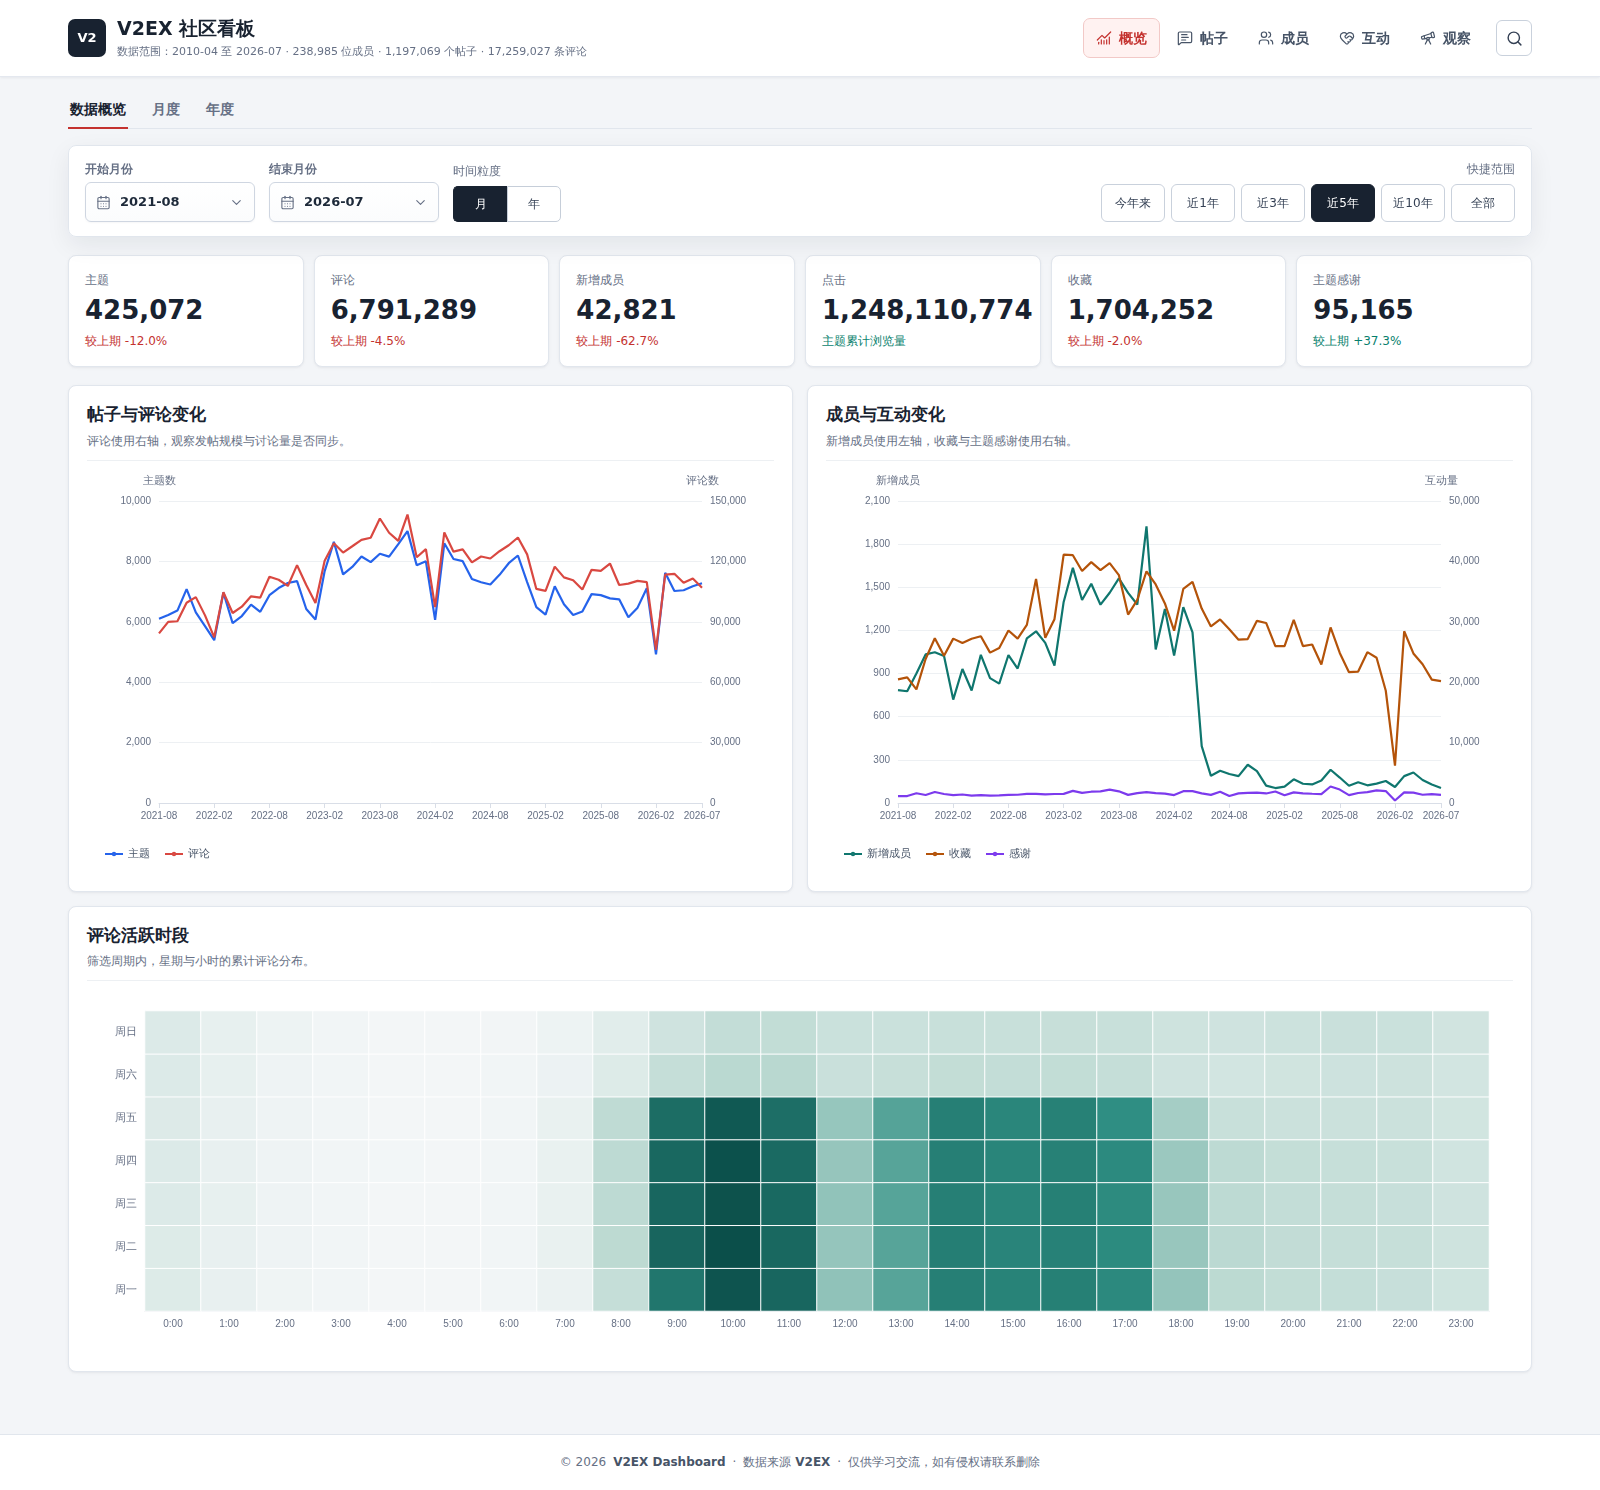
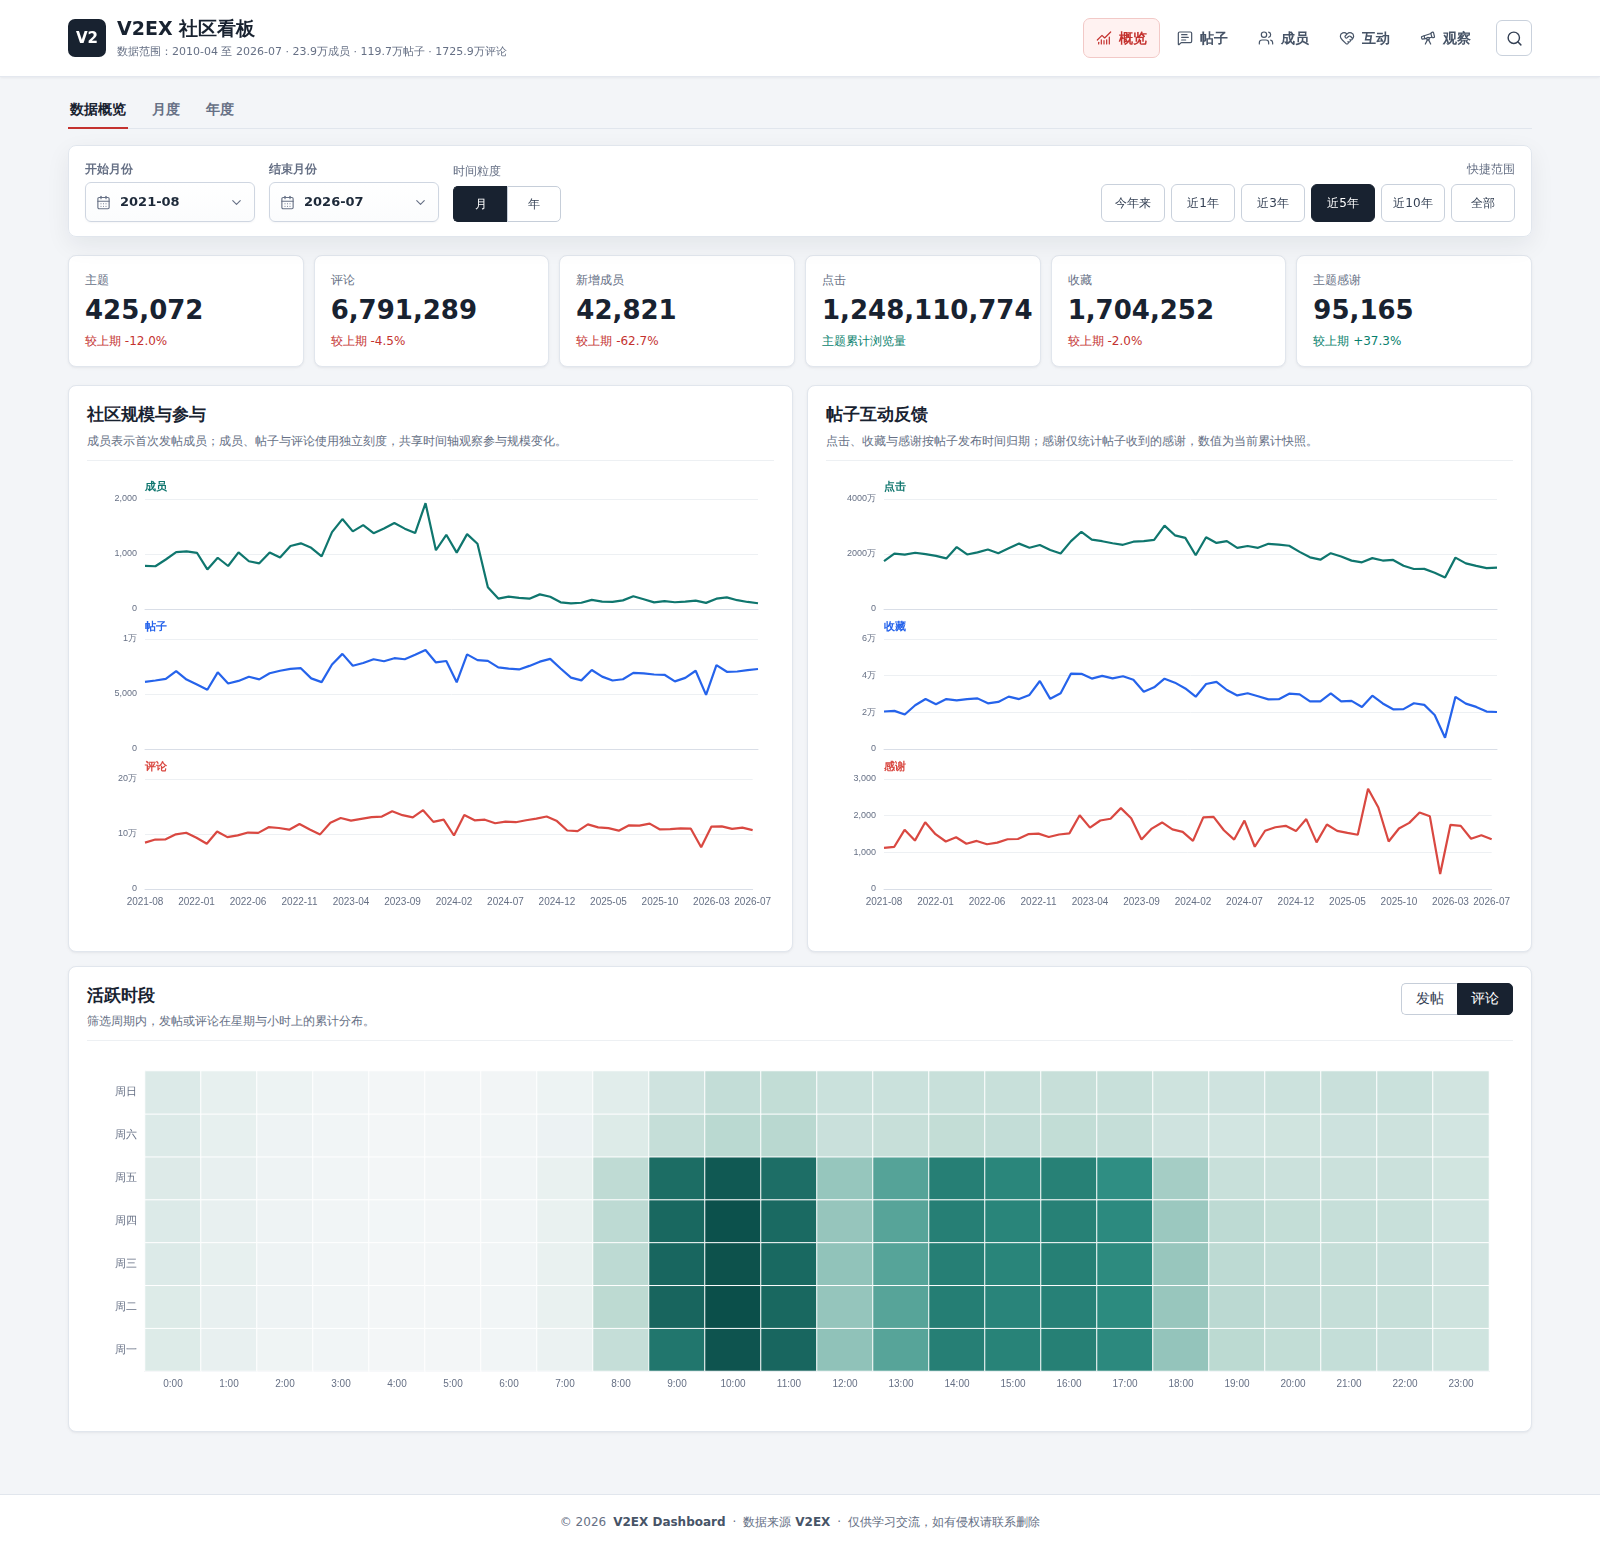
Refine overview activity trends

diff --git a/analysis/v2ex-analysis/src/App.vue b/analysis/v2ex-analysis/src/App.vue
@@ -77,6 +77,7 @@ const observations = shallowRef<any>({ metadata: {}, headline: { metrics: [] }, 
 const loadedData = new Set<string>()
 const contentView = ref<ContentView>("topics")
 const overviewView = ref<OverviewView>("trend")
+const overviewActivityMetric = ref<"topics" | "comments">("comments")
 const communityView = ref<CommunityView>("trends")
 const fromPeriod = ref("")
 const toPeriod = ref("")
@@ -269,6 +270,15 @@ type LineDefinition = {
   areaColor?: string
 }
 
+type OverviewLaneDefinition = {
+  name: string
+  data: number[]
+  color: string
+  unit: string
+}
+
+const overviewLaneColors = ["#0f766e", "#2563eb", "#d94841"] as const
+
 function renderLineChart(
   id: string,
   periods: string[],
@@ -341,6 +351,117 @@ function renderLineChart(
         symbol: ["none", "none"],
         lineStyle: { color: chartTheme.pointer, type: "dashed", width: 1 },
         label: { color: chartTheme.axis, fontSize: 10, formatter: "{b}", position: "insideEndTop" },
+        data: eventMarkers.map((event: any) => ({ name: event.short_label, xAxis: event.axisPeriod })),
+      } : undefined,
+    })),
+  } as any, true)
+}
+
+function renderOverviewMetricGroup(
+  id: string,
+  periods: string[],
+  definitions: OverviewLaneDefinition[],
+  showEvents = false,
+) {
+  const chart = managedChart(id)
+  if (!chart || !periods.length) return
+  const element = chart.getDom()
+  chart.resize()
+
+  const annual = periods[0]?.length === 4
+  const eventMarkers = showEvents
+    ? communityEvents.value
+      .map((event: any) => ({ ...event, axisPeriod: annual ? event.period.slice(0, 4) : event.period }))
+      .filter((event: any, index: number, values: any[]) => periods.includes(event.axisPeriod)
+        && values.findIndex((candidate) => candidate.axisPeriod === event.axisPeriod && candidate.title === event.title) === index)
+    : []
+  const chartHeight = Math.max(360, element.clientHeight)
+  const top = 26
+  const bottom = 44
+  const gap = 30
+  const laneHeight = Math.max(66, Math.floor((chartHeight - top - bottom - gap * 2) / definitions.length))
+  const grids = definitions.map((_, index) => ({
+    top: top + index * (laneHeight + gap),
+    height: laneHeight,
+    left: 58,
+    right: 16,
+    containLabel: false,
+  }))
+
+  chart.setOption({
+    aria: { enabled: true },
+    animation: false,
+    axisPointer: {
+      link: [{ xAxisIndex: "all" }],
+      label: { show: false },
+    },
+    tooltip: {
+      trigger: "axis",
+      confine: true,
+      axisPointer: { type: "line", lineStyle: { color: chartTheme.pointer, width: 1 } },
+      formatter(params: any[]) {
+        const dataIndex = Number(params[0]?.dataIndex || 0)
+        const rows = definitions.map((definition) => (
+          `<span style="display:flex;align-items:center;justify-content:space-between;gap:18px;min-width:190px">`
+          + `<span style="display:flex;align-items:center;gap:7px">`
+          + `<i style="display:inline-block;width:9px;height:9px;border-radius:50%;background:${definition.color}"></i>`
+          + `${escapeHtml(definition.name)}</span>`
+          + `<strong>${formatNumber(definition.data[dataIndex])} ${escapeHtml(definition.unit)}</strong></span>`
+        )).join("")
+        return `<div><strong>${escapeHtml(periods[dataIndex] || "")}</strong><div style="display:grid;gap:6px;margin-top:8px">${rows}</div></div>`
+      },
+    },
+    grid: grids,
+    xAxis: definitions.map((_, index) => ({
+      type: "category",
+      gridIndex: index,
+      boundaryGap: false,
+      data: periods,
+      axisLabel: index === definitions.length - 1 ? timeAxisLabel() : { show: false },
+      axisTick: { show: false },
+      axisLine: { lineStyle: { color: chartTheme.axisLine } },
+      axisPointer: { show: true, snap: true },
+    })),
+    yAxis: definitions.map((definition, index) => ({
+      type: "value",
+      gridIndex: index,
+      min: 0,
+      splitNumber: 2,
+      name: definition.name,
+      nameLocation: "end",
+      nameGap: 7,
+      nameTextStyle: { color: definition.color, fontSize: 11, fontWeight: 600, align: "left" },
+      axisLabel: {
+        color: chartTheme.axis,
+        fontSize: 9,
+        formatter: (value: number) => formatCompactNumber(value),
+      },
+      axisLine: { show: false },
+      axisTick: { show: false },
+      splitLine: { lineStyle: { color: chartTheme.gridLine } },
+    })),
+    series: definitions.map((definition, index) => ({
+      name: definition.name,
+      type: "line",
+      xAxisIndex: index,
+      yAxisIndex: index,
+      data: definition.data,
+      showSymbol: periods.length <= 1,
+      symbolSize: 7,
+      lineStyle: { color: definition.color, width: 2.2 },
+      itemStyle: { color: definition.color },
+      emphasis: { focus: "series", lineStyle: { width: 3.5 } },
+      markLine: eventMarkers.length ? {
+        silent: true,
+        symbol: ["none", "none"],
+        lineStyle: { color: chartTheme.pointer, type: "dashed", width: 1 },
+        label: {
+          show: index === 0,
+          color: chartTheme.axis,
+          fontSize: 10,
+          formatter: "{b}",
+          position: "insideEndTop",
+        },
         data: eventMarkers.map((event: any) => ({ name: event.short_label, xAxis: event.axisPeriod })),
       } : undefined,
     })),
@@ -624,6 +745,13 @@ function selectTab(id: string) {
 
 function selectOverviewView(id: string) {
   overviewView.value = id as OverviewView
+}
+
+async function selectOverviewActivityMetric(metric: "topics" | "comments") {
+  if (overviewActivityMetric.value === metric) return
+  overviewActivityMetric.value = metric
+  await nextTick()
+  renderHeatmap()
 }
 
 function selectContentView(id: string) {
@@ -1509,19 +1637,20 @@ async function loadTagComparisonDetails(values = comparedTags.value) {
 
 function renderOverviewTrend() {
   const periods = selectedMetrics.value.map((item) => item.period)
-  renderLineChart("overview-trend", periods, [
-    { name: "主题", data: selectedMetrics.value.map((item) => item.topic_count), color: "#2563eb" },
-    { name: "评论", data: selectedMetrics.value.map((item) => item.comment_count), color: "#d94841", yAxisIndex: 1 },
-  ], [{ name: "主题数" }, { name: "评论数" }])
+  renderOverviewMetricGroup("overview-trend", periods, [
+    { name: "成员", data: selectedMetrics.value.map((item) => item.member_count), color: overviewLaneColors[0], unit: "人" },
+    { name: "帖子", data: selectedMetrics.value.map((item) => item.topic_count), color: overviewLaneColors[1], unit: "个" },
+    { name: "评论", data: selectedMetrics.value.map((item) => item.comment_count), color: overviewLaneColors[2], unit: "条" },
+  ], true)
 }
 
 function renderOverviewParticipation() {
   const periods = selectedMetrics.value.map((item) => item.period)
-  renderLineChart("overview-participation", periods, [
-    { name: "新增成员", data: selectedMetrics.value.map((item) => item.member_count), color: "#0f766e" },
-    { name: "收藏", data: selectedMetrics.value.map((item) => item.favorite_sum), color: "#b45309", yAxisIndex: 1 },
-    { name: "感谢", data: selectedMetrics.value.map((item) => item.thank_sum), color: "#7c3aed", yAxisIndex: 1 },
-  ], [{ name: "新增成员" }, { name: "互动量" }])
+  renderOverviewMetricGroup("overview-participation", periods, [
+    { name: "点击", data: selectedMetrics.value.map((item) => item.click_sum), color: overviewLaneColors[0], unit: "次" },
+    { name: "收藏", data: selectedMetrics.value.map((item) => item.favorite_sum), color: overviewLaneColors[1], unit: "次" },
+    { name: "感谢", data: selectedMetrics.value.map((item) => item.thank_sum), color: overviewLaneColors[2], unit: "次" },
+  ])
 }
 
 function renderPostResponseIntensity() {
@@ -1534,14 +1663,20 @@ function renderPostResponseIntensity() {
 
 function renderHeatmap() {
   const metric = new Map<string, number>()
+  const valueIndex = overviewActivityMetric.value === "topics" ? 3 : 4
+  const metricLabel = overviewActivityMetric.value === "topics" ? "发帖" : "评论"
   for (const row of overview.value.activity) {
     if (!inRange(row[0])) continue
     const key = `${row[1]}-${row[2]}`
-    metric.set(key, (metric.get(key) || 0) + row[4])
+    metric.set(key, (metric.get(key) || 0) + row[valueIndex])
   }
   const days = ["周一", "周二", "周三", "周四", "周五", "周六", "周日"]
   const chart = managedChart("activity-heatmap")
   if (!chart) return
+  const chartElement = chart.getDom()
+  chartElement.dataset.metric = overviewActivityMetric.value
+  chartElement.setAttribute("role", "img")
+  chartElement.setAttribute("aria-label", `${metricLabel}活跃时段热力图`)
   const hours = Array.from({ length: 24 }, (_, hour) => `${hour}:00`)
   const data: number[][] = []
   let maxValue = 0
@@ -1553,12 +1688,12 @@ function renderHeatmap() {
   chart.setOption({
     aria: { enabled: true },
     animation: false,
-    tooltip: { trigger: "item", confine: true, formatter: (params: any) => `${days[params.value[1]]} ${hours[params.value[0]]}<br>评论 ${formatNumber(params.value[2])}` },
+    tooltip: { trigger: "item", confine: true, formatter: (params: any) => `${days[params.value[1]]} ${hours[params.value[0]]}<br>${metricLabel} ${formatNumber(params.value[2])}` },
     grid: { top: 18, right: 24, bottom: 42, left: 58 },
     xAxis: { type: "category", data: hours, axisLabel: { color: "#667085", fontSize: 10 }, axisLine: { lineStyle: { color: "#d9dee7" } } },
     yAxis: { type: "category", data: days, axisLabel: { color: "#667085", fontSize: 11 }, axisLine: { lineStyle: { color: "#d9dee7" } } },
     visualMap: { show: false, min: 0, max: maxValue || 1, dimension: 2, inRange: { color: heatmapColors } },
-    series: [{ type: "heatmap", data, itemStyle: { borderColor: "#fff", borderWidth: 1 }, emphasis: { itemStyle: { borderColor: "#111827", borderWidth: 2 } } }],
+    series: [{ name: metricLabel, type: "heatmap", data, itemStyle: { borderColor: "#fff", borderWidth: 1 }, emphasis: { itemStyle: { borderColor: "#111827", borderWidth: 2 } } }],
   } as any, true)
 }
 
@@ -2755,6 +2890,8 @@ onMounted(async () => {
       v-else-if="activeTab === 'overview'"
       :summary="currentSummary"
       :previous="previousSummary"
+      :activity-metric="overviewActivityMetric"
+      @select-activity-metric="selectOverviewActivityMetric"
       @ready="renderActiveTab"
     />
 

diff --git a/analysis/v2ex-analysis/src/views/OverviewTrendView.vue b/analysis/v2ex-analysis/src/views/OverviewTrendView.vue
@@ -5,9 +5,13 @@ import MetricTile from "../components/MetricTile.vue"
 const props = defineProps<{
   summary: Record<string, number>
   previous: Record<string, number>
+  activityMetric: "topics" | "comments"
 }>()
 
-const emit = defineEmits<{ ready: [] }>()
+const emit = defineEmits<{
+  ready: []
+  "select-activity-metric": [metric: "topics" | "comments"]
+}>()
 
 function formatNumber(value: number | undefined) {
   return Number(value || 0).toLocaleString("zh-CN")
@@ -38,16 +42,22 @@ onMounted(() => emit("ready"))
     </div>
     <div class="chart-grid two">
       <article class="analysis-block">
-        <header><h2>帖子与评论变化</h2><p>评论使用右轴，观察发帖规模与讨论量是否同步。</p></header>
-        <div id="overview-trend" class="chart"></div>
+        <header><h2>社区规模与参与</h2><p>成员表示首次发帖成员；成员、帖子与评论使用独立刻度，共享时间轴观察参与规模变化。</p></header>
+        <div id="overview-trend" class="chart overview-metric-chart"></div>
       </article>
       <article class="analysis-block">
-        <header><h2>成员与互动变化</h2><p>新增成员使用左轴，收藏与主题感谢使用右轴。</p></header>
-        <div id="overview-participation" class="chart"></div>
+        <header><h2>帖子互动反馈</h2><p>点击、收藏与感谢按帖子发布时间归期；感谢仅统计帖子收到的感谢，数值为当前累计快照。</p></header>
+        <div id="overview-participation" class="chart overview-metric-chart"></div>
       </article>
     </div>
     <article class="analysis-block full">
-      <header><h2>评论活跃时段</h2><p>筛选周期内，星期与小时的累计评论分布。</p></header>
+      <header class="activity-chart-header">
+        <div><h2>活跃时段</h2><p>筛选周期内，发帖或评论在星期与小时上的累计分布。</p></div>
+        <div class="segmented activity-metric-toggle" aria-label="活跃时段指标">
+          <button type="button" :class="{ active: activityMetric === 'topics' }" :aria-pressed="activityMetric === 'topics'" @click="emit('select-activity-metric', 'topics')">发帖</button>
+          <button type="button" :class="{ active: activityMetric === 'comments' }" :aria-pressed="activityMetric === 'comments'" @click="emit('select-activity-metric', 'comments')">评论</button>
+        </div>
+      </header>
       <div id="activity-heatmap" class="chart heatmap"></div>
     </article>
   </section>

diff --git a/analysis/v2ex-analysis/tests/e2e/dashboard.spec.ts b/analysis/v2ex-analysis/tests/e2e/dashboard.spec.ts
@@ -24,6 +24,16 @@ test("loads core views without runtime or layout errors", async ({ page }) => {
 
   await page.goto("/", { waitUntil: "domcontentloaded" })
   await expect(page.locator("#overview-trend canvas")).toBeVisible()
+  await expect(page.getByRole("heading", { name: "社区规模与参与", exact: true })).toBeVisible()
+  await expect(page.getByRole("heading", { name: "帖子互动反馈", exact: true })).toBeVisible()
+  await expect(page.locator("#overview-participation canvas")).toBeVisible()
+  await expect(page.getByRole("heading", { name: "活跃时段", exact: true })).toBeVisible()
+  await expect(page.getByRole("button", { name: "评论", exact: true })).toHaveAttribute("aria-pressed", "true")
+  const activityHeatmap = page.locator("#activity-heatmap")
+  await expect(activityHeatmap).toHaveAttribute("data-metric", "comments")
+  await page.getByRole("button", { name: "发帖", exact: true }).click()
+  await expect(page.getByRole("button", { name: "发帖", exact: true })).toHaveAttribute("aria-pressed", "true")
+  await expect(activityHeatmap).toHaveAttribute("data-metric", "topics")
   await expect(page.locator(".data-scope")).toHaveText(/数据范围：\d{4}-\d{2} 至 \d{4}-\d{2}/)
   await expect(page.locator(".data-scope")).toContainText("成员")
   await expect(page.locator(".data-scope")).toContainText("帖子")

diff --git a/analysis/v2ex-analysis/src/assets/main.css b/analysis/v2ex-analysis/src/assets/main.css
@@ -183,8 +183,13 @@ select { width: 100%; min-width: 0; height: 38px; border: 1px solid #c9d1dc; bor
 .analysis-block header p, .leader-board header p, .section-toolbar p { max-width: 820px; font-size: 12px; line-height: 1.5; }
 .analysis-block.full { width: 100%; }
 .chart { width: 100%; height: 400px; }
+.chart.overview-metric-chart { height: 460px; }
 .chart.tall { height: 520px; }
 .chart.heatmap { height: 360px; }
+.activity-chart-header { display: flex; align-items: flex-start; justify-content: space-between; gap: 16px; }
+.activity-chart-header > div:first-child { min-width: 0; }
+.activity-metric-toggle { flex: 0 0 auto; }
+.activity-metric-toggle button { min-width: 56px; height: 32px; }
 .evolution-heatmap { min-width: 0; }
 
 .section-toolbar { display: flex; justify-content: space-between; align-items: flex-end; gap: 20px; margin-bottom: 14px; }

diff --git a/DATA_ANALYSIS.md b/DATA_ANALYSIS.md
@@ -13,7 +13,7 @@
 | 文件 | 内容 | 当前大小 |
 | --- | --- | ---: |
 | `dynamic-overview.json` | 全局元数据及月度规模、回复和成员指标 | 约 36 KB |
-| `dynamic-overview-activity.json` | 评论活跃时段，仅进入数据概览时加载 | 约 0.8 MB |
+| `dynamic-overview-activity.json` | 发帖与评论活跃时段，仅进入数据概览时加载 | 约 0.8 MB |
 | `dynamic-topics.json` | 500 个话题、话题分类和年度分片索引 | 约 76 KB |
 | `dynamic-topic-rows-*.json` | 话题月度趋势，按年份加载 | 每片约 48–196 KB |
 | `dynamic-content-hotspots-index.json` | 标题热词索引、月份总量和年度分片索引 | 约 28 KB |
@@ -49,9 +49,9 @@
 ### 概览
 
 - **主题、评论、新增成员、点击、收藏、主题感谢**：筛选周期内的累计数量或当前快照。
-- **帖子与评论变化**：观察发帖规模与评论量是否同步。
-- **成员与互动变化**：观察新增成员、收藏和主题感谢的全局变化。
-- **活跃时段**：按主题或评论发布时间聚合到星期和小时。
+- **社区规模与参与**：图内简写为成员、帖子与评论；成员表示首次发帖成员，三项使用独立刻度和共享时间轴，避免量级差异掩盖趋势。
+- **帖子互动反馈**：图内简写为点击、收藏与感谢；感谢仅统计帖子收到的感谢，三项按帖子发布时间归期，展示抓取时的当前累计快照，而非当期新增互动。
+- **活跃时段**：可切换发帖或评论，分别按发布时间聚合到星期和小时。
 
 ### 帖子
 
